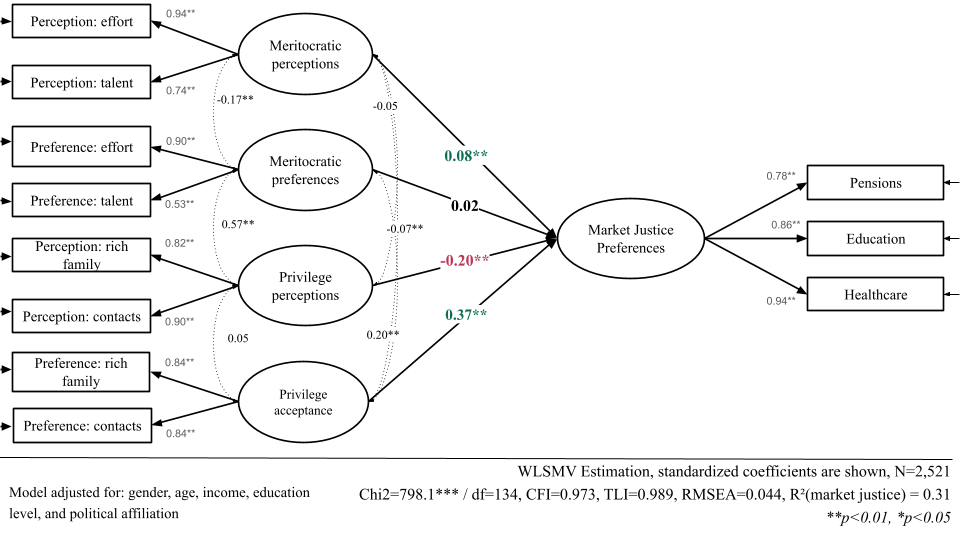
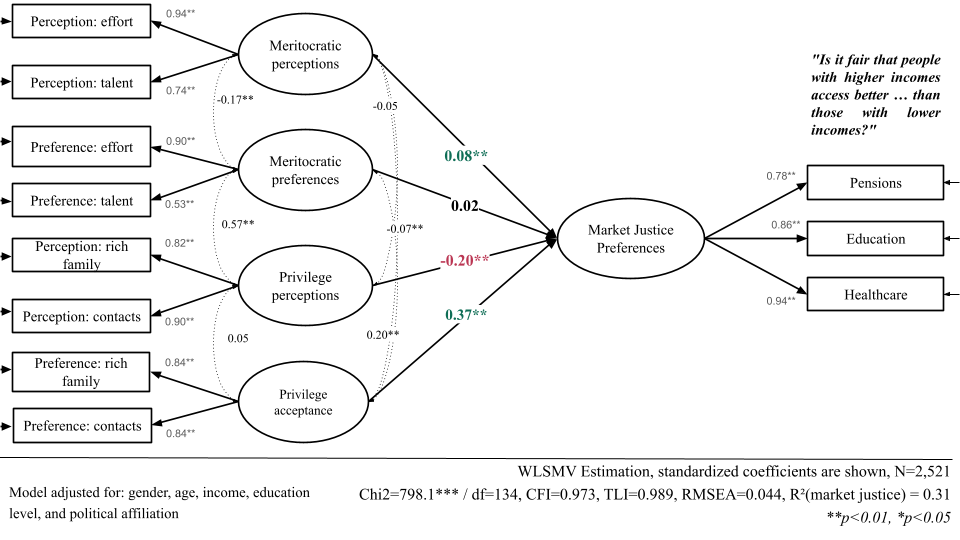
Up VF presentation WARN

Changed region(s): [[0.8438, 0.0889, 1.0, 0.2667]]

diff --git a/presentations/WARN/warn-workshop.html b/presentations/WARN/warn-workshop.html
@@ -372,11 +372,6 @@ Figure&nbsp;1: Hypothesis
 </div>
 </div>
 </div>
-</section></section>
-<section>
-<section id="methodology" class="title-slide slide level1 center" data-background-color="#491106ff">
-<h1>Methodology</h1>
-
 </section>
 <section id="data" class="slide level2">
 <h2>Data</h2>
@@ -402,81 +397,11 @@ Figure&nbsp;1: Hypothesis
           overflow: hidden!important;
           display:block!important;
       }</style></aside>
-</section>
-<section id="measures" class="slide level2">
-<h2>Measures</h2>
-<div style="font-size: 100%;">
-<p><strong>Dependent variable — Market justice preferences</strong></p>
-<ul>
-<li class="fragment">Justifying income-based access to three core services: <strong>healthcare, pensions, and education</strong> → e.g.&nbsp;<em>“Is it fair that people with higher incomes access better healthcare than those with lower incomes?”</em></li>
-<li class="fragment">5-point Likert (1 = strongly disagree to 5 = strongly agree)</li>
-<li class="fragment">Three items → one latent factor</li>
-</ul>
-<p><strong>Meritocratic beliefs (4 latent dimensions)</strong></p>
-<ul>
-<li class="fragment">Same items as the original scale <span class="citation" data-cites="castillo_multidimensional_2023">(<a href="#/references" role="doc-biblioref" onclick="">Castillo et al., 2023</a>)</span></li>
-<li class="fragment">4-point Likert items (1 = strongly disagree to 4 = strongly agree)</li>
-</ul>
-<p><strong>Controls</strong></p>
-<ul>
-<li class="fragment">Sex (man / woman); age; education (years); income quintile; political identification (left / center / right / none)</li>
-</ul>
-</div>
-</section>
-<section id="analytical-strategy" class="slide level2">
-<h2>Analytical strategy</h2>
-<div style="font-size: 120%;">
-<ul>
-<li class="fragment"><p>First, we estimate a Confirmatory Factor Analysis of the multidimensional meritocracy scale <span class="citation" data-cites="brown_confirmatory_2015">(<a href="#/references" role="doc-biblioref" onclick="">Brown, 2015</a>)</span></p></li>
-<li class="fragment"><p>Second, we estimate a Structural Equation Model → latent market justice regressed on latent meritocracy factors</p></li>
-</ul>
-<div class="fragment">
-<p><span class="math display">\[
-\text{MJP}_{i} = \alpha + \beta_1 \eta^{PM}_{i} + \beta_2 \eta^{PNM}_{i} + \beta_3 \eta^{PrM}_{i} + \beta_4 \eta^{PrNM}_{i} + \gamma'X_i + \varepsilon_i
-\]</span></p>
-</div>
-<ul>
-<li class="fragment"><p>Estimation: WLSMV<br>
-→ appropriate for ordinal (Likert-type) data <span class="citation" data-cites="kline_principles_2023">(<a href="#/references" role="doc-biblioref" onclick="">Kline, 2023</a>)</span></p></li>
-<li class="fragment"><p>Fit cutoffs: CFI, TLI ≥ .95; RMSEA ≤ .06 <span class="citation" data-cites="brown_confirmatory_2015">(<a href="#/references" role="doc-biblioref" onclick="">Brown, 2015</a>)</span></p></li>
-</ul>
-</div>
-<aside class="notes">
-<p>Methodologically, we prəˈsēd in two steps. First, we estimate a confirmatory factor analysis of the multidimensional scale, which showed a good fit to the data. This adds evidence in line with the leitent structure of the scale.</p>
-<p>Second, we estimate a structural equation model in which pension market justice is regressed on the leitent meritocracy factors. This allauwas to model the covariance among the items, recover the underlying dimensions of meritocratic beliefs, and estimate how each of them relates to support for market justice. Formally, the outcome is modeled as a function of the scale’s four leitent dimensions, along with the same controls as in the main paper.</p>
-<style type="text/css">
-        span.MJX_Assistive_MathML {
-          position:absolute!important;
-          clip: rect(1px, 1px, 1px, 1px);
-          padding: 1px 0 0 0!important;
-          border: 0!important;
-          height: 1px!important;
-          width: 1px!important;
-          overflow: hidden!important;
-          display:block!important;
-      }</style></aside>
 </section></section>
 <section>
 <section id="results" class="title-slide slide level1 center" data-background-color="#491106ff">
 <h1>Results</h1>
 
-</section>
-<section id="descriptive" class="slide level2">
-<h2>Descriptive</h2>
-<div class="cell fig-cap-location-bottom">
-<div class="cell-output-display">
-<div id="fig-likermerit" class="quarto-float quarto-figure quarto-figure-center" data-cap-location="bottom">
-<figure class="quarto-float quarto-float-fig">
-<div aria-describedby="fig-likermerit-caption-0ceaefa1-69ba-4598-a22c-09a6ac19f8ca">
-<img data-src="warn-workshop_files/figure-revealjs/fig-likermerit-1.png" style="width:90.0%">
-</div>
-<figcaption class="quarto-float-caption-bottom quarto-float-caption quarto-float-fig" id="fig-likermerit-caption-0ceaefa1-69ba-4598-a22c-09a6ac19f8ca">
-Figure&nbsp;2: Distribution of responses on the scale of perceptions and preferences regarding meritocracy
-</figcaption>
-</figure>
-</div>
-</div>
-</div>
 </section>
 <section id="cfa" class="slide level2">
 <h2>CFA</h2>
@@ -488,7 +413,7 @@ Figure&nbsp;2: Distribution of responses on the scale of perceptions and prefere
 <img data-src="images/cfa.png" class="quarto-figure quarto-figure-center" style="width:100.0%">
 </div>
 <figcaption class="quarto-float-caption-bottom quarto-float-caption quarto-float-fig" id="fig-cfa-caption-0ceaefa1-69ba-4598-a22c-09a6ac19f8ca">
-Figure&nbsp;3: Confirmatory factor analysis
+Figure&nbsp;2: Confirmatory factor analysis
 </figcaption>
 </figure>
 </div>
@@ -505,7 +430,7 @@ Figure&nbsp;3: Confirmatory factor analysis
 <img data-src="images/sem.png" class="quarto-figure quarto-figure-center" style="width:100.0%">
 </div>
 <figcaption class="quarto-float-caption-bottom quarto-float-caption quarto-float-fig" id="fig-sem-caption-0ceaefa1-69ba-4598-a22c-09a6ac19f8ca">
-Figure&nbsp;4: Structural equation model
+Figure&nbsp;3: Structural equation model
 </figcaption>
 </figure>
 </div>
@@ -517,25 +442,14 @@ Figure&nbsp;4: Structural equation model
 <h1>Discussion and conclusion</h1>
 
 </section>
-<section id="dialogue-with-the-literature" class="slide level2">
-<h2>Dialogue with the literature</h2>
+<section id="discussion-and-conclusion-1" class="slide level2">
+<h2>Discussion and conclusion</h2>
 <div style="font-size: 120%;">
 <ul>
-<li class="fragment">Robust replication: higher meritocratic perceptions raise MJP <span class="citation" data-cites="castillo_perceptions_2025">(<a href="#/references" role="doc-biblioref" onclick="">Castillo et al., 2025</a>)</span></li>
-<li class="fragment">Perceiving privilege lowers MJP; endorsing it raises it the most</li>
-<li class="fragment">Embracing privilege means justifying more inequality and market welfare</li>
-<li class="fragment">Speaks to welfare attitudes: brings market justice in, and meritocracy as legitimizer of inequality <span class="citation" data-cites="lindh_class_2020 lindh_bringing_2023 mau_inequality_2015 castillo_perceptions_2025">(<a href="#/references" role="doc-biblioref" onclick="">Castillo et al., 2025</a>; <a href="#/references" role="doc-biblioref" onclick="">Lindh &amp; McCall, 2020</a>, <a href="#/references" role="doc-biblioref" onclick="">2023</a>; <a href="#/references" role="doc-biblioref" onclick="">Mau, 2015</a>)</span></li>
-</ul>
-</div>
-</section>
-<section id="methodological-takeaways-and-implications" class="slide level2">
-<h2>Methodological takeaways and implications</h2>
-<div style="font-size: 120%;">
-<ul>
-<li class="fragment">Broad measurement of meritocratic beliefs reveals distinct paths: perceptions vs preferences, merit vs privilege</li>
-<li class="fragment">SEM tools (measurement error and latent paths) are a useful way to model them</li>
-<li class="fragment">Transferable to other beliefs, criteria and domains shaping welfare attitudes</li>
-<li class="fragment">Limits: cross-sectional and one country; next: conjoint experiments and cross-country analysis</li>
+<li class="fragment">Findings: meritocratic perceptions and endorsing privilege raise MJP; perceiving privilege lowers it <span class="citation" data-cites="castillo_perceptions_2025">(<a href="#/references" role="doc-biblioref" onclick="">Castillo et al., 2025</a>)</span></li>
+<li class="fragment">Broad measurement of meritocratic beliefs reveals distinct paths: perception vs preference, merit vs privilege</li>
+<li class="fragment">SEM (measurement error, latent paths) is a useful, transferable tool for other beliefs, criteria and domains</li>
+<li class="fragment">Limits: cross-sectional, one country; next: conjoint experiments and cross-country analysis</li>
 </ul>
 </div>
 </section></section>
@@ -602,12 +516,6 @@ Koos, S., &amp; Sachweh, P. (2019). The moral economies of market societies: Pop
 <div id="ref-lindh_public_2015" class="csl-entry" role="listitem">
 Lindh, A. (2015). Public <span>Opinion</span> against <span>Markets</span>? <span>Attitudes</span> towards <span>Market Distribution</span> of <span>Social Services</span> – <span>A Comparison</span> of 17 <span>Countries</span>. <em>Social Policy &amp; Administration</em>, <em>49</em>(7), 887–910. <a href="https://doi.org/10.1111/spol.12105">https://doi.org/10.1111/spol.12105</a>
 </div>
-<div id="ref-lindh_class_2020" class="csl-entry" role="listitem">
-Lindh, A., &amp; McCall, L. (2020). Class <span>Position</span> and <span>Political Opinion</span> in <span>Rich Democracies</span>. <em>Annual Review of Sociology</em>, <em>46</em>(1), 419–441. <a href="https://doi.org/10.1146/annurev-soc-121919-054609">https://doi.org/10.1146/annurev-soc-121919-054609</a>
-</div>
-<div id="ref-lindh_bringing_2023" class="csl-entry" role="listitem">
-Lindh, A., &amp; McCall, L. (2023). Bringing the market in: An expanded framework for understanding popular responses to economic inequality. <em>Socio-Economic Review</em>, <em>21</em>(2), 1035–1055. <a href="https://doi.org/10.1093/ser/mwac018">https://doi.org/10.1093/ser/mwac018</a>
-</div>
 <div id="ref-mau_inequality_2015" class="csl-entry" role="listitem">
 Mau, S. (2015). <em>Inequality, <span>Marketization</span> and the <span>Majority Class</span>: <span>Why Did</span> the <span>European Middle Classes Accept Neo-Liberalism</span>?</em> London: Palgrave Macmillan UK.
 </div>
@@ -624,6 +532,76 @@ Van Oorschot, W., Roosma, F., Meuleman, B., &amp; Reeskens, T. (Eds.). (2017). <
 <section id="supplementary-material" class="title-slide slide level1 center" data-background-color="#491106ff">
 <h1>Supplementary Material</h1>
 
+</section>
+<section id="measures" class="slide level2">
+<h2>Measures</h2>
+<div style="font-size: 100%;">
+<p><strong>Dependent variable — Market justice preferences</strong></p>
+<ul>
+<li class="fragment">Justifying income-based access to three core services: <strong>healthcare, pensions, and education</strong> → e.g.&nbsp;<em>“Is it fair that people with higher incomes access better healthcare than those with lower incomes?”</em></li>
+<li class="fragment">5-point Likert (1 = strongly disagree to 5 = strongly agree)</li>
+<li class="fragment">Three items → one latent factor</li>
+</ul>
+<p><strong>Meritocratic beliefs (4 latent dimensions)</strong></p>
+<ul>
+<li class="fragment">Same items as the original scale <span class="citation" data-cites="castillo_multidimensional_2023">(<a href="#/references" role="doc-biblioref" onclick="">Castillo et al., 2023</a>)</span></li>
+<li class="fragment">4-point Likert items (1 = strongly disagree to 4 = strongly agree)</li>
+</ul>
+<p><strong>Controls</strong></p>
+<ul>
+<li class="fragment">Sex (man / woman); age; education (years); income quintile; political identification (left / center / right / none)</li>
+</ul>
+</div>
+</section>
+<section id="analytical-strategy" class="slide level2">
+<h2>Analytical strategy</h2>
+<div style="font-size: 120%;">
+<ul>
+<li class="fragment"><p>First, we estimate a Confirmatory Factor Analysis of the multidimensional meritocracy scale <span class="citation" data-cites="brown_confirmatory_2015">(<a href="#/references" role="doc-biblioref" onclick="">Brown, 2015</a>)</span></p></li>
+<li class="fragment"><p>Second, we estimate a Structural Equation Model → latent market justice regressed on latent meritocracy factors</p></li>
+</ul>
+<div class="fragment">
+<p><span class="math display">\[
+\text{MJP}_{i} = \alpha + \beta_1 \eta^{PM}_{i} + \beta_2 \eta^{PNM}_{i} + \beta_3 \eta^{PrM}_{i} + \beta_4 \eta^{PrNM}_{i} + \gamma'X_i + \varepsilon_i
+\]</span></p>
+</div>
+<ul>
+<li class="fragment"><p>Estimation: WLSMV<br>
+→ appropriate for ordinal (Likert-type) data <span class="citation" data-cites="kline_principles_2023">(<a href="#/references" role="doc-biblioref" onclick="">Kline, 2023</a>)</span></p></li>
+<li class="fragment"><p>Fit cutoffs: CFI, TLI ≥ .95; RMSEA ≤ .06 <span class="citation" data-cites="brown_confirmatory_2015">(<a href="#/references" role="doc-biblioref" onclick="">Brown, 2015</a>)</span></p></li>
+</ul>
+</div>
+<aside class="notes">
+<p>Methodologically, we prəˈsēd in two steps. First, we estimate a confirmatory factor analysis of the multidimensional scale, which showed a good fit to the data. This adds evidence in line with the leitent structure of the scale.</p>
+<p>Second, we estimate a structural equation model in which pension market justice is regressed on the leitent meritocracy factors. This allauwas to model the covariance among the items, recover the underlying dimensions of meritocratic beliefs, and estimate how each of them relates to support for market justice. Formally, the outcome is modeled as a function of the scale’s four leitent dimensions, along with the same controls as in the main paper.</p>
+<style type="text/css">
+        span.MJX_Assistive_MathML {
+          position:absolute!important;
+          clip: rect(1px, 1px, 1px, 1px);
+          padding: 1px 0 0 0!important;
+          border: 0!important;
+          height: 1px!important;
+          width: 1px!important;
+          overflow: hidden!important;
+          display:block!important;
+      }</style></aside>
+</section>
+<section id="descriptive" class="slide level2">
+<h2>Descriptive</h2>
+<div class="cell fig-cap-location-bottom">
+<div class="cell-output-display">
+<div id="fig-likermerit" class="quarto-float quarto-figure quarto-figure-center" data-cap-location="bottom">
+<figure class="quarto-float quarto-float-fig">
+<div aria-describedby="fig-likermerit-caption-0ceaefa1-69ba-4598-a22c-09a6ac19f8ca">
+<img data-src="warn-workshop_files/figure-revealjs/fig-likermerit-1.png" style="width:90.0%">
+</div>
+<figcaption class="quarto-float-caption-bottom quarto-float-caption quarto-float-fig" id="fig-likermerit-caption-0ceaefa1-69ba-4598-a22c-09a6ac19f8ca">
+Figure&nbsp;4: Distribution of responses on the scale of perceptions and preferences regarding meritocracy
+</figcaption>
+</figure>
+</div>
+</div>
+</div>
 </section>
 <section id="bivariate" class="slide level2">
 <h2>Bivariate</h2>
